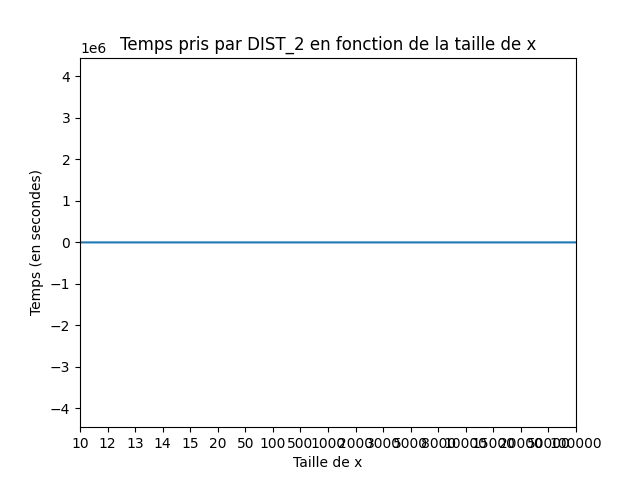
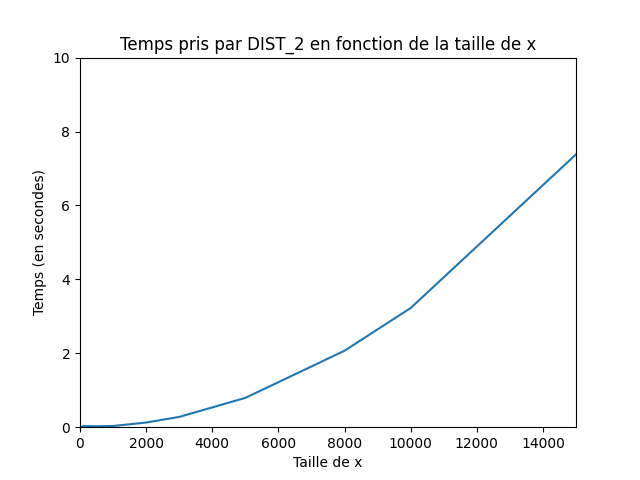
peut-être le commit final ?

diff --git a/Partie4.py b/Partie4.py
@@ -1,5 +1,3 @@
-#Partie 4
-
 from TacheD import *
 import random
 
@@ -20,6 +18,9 @@ def generate_instance(n, m):
 		raise Exception("Erreur lors de l'ouverture du fichier")
 		return None
 
+	f.write(str(n) + "\n")
+	f.write(str(m) + "\n")
+
 	for i in range(n):
 		f.write(random.choice(L))
 
@@ -38,51 +39,26 @@ instance3 = generate_instance(15000,500)
 
 print("\n")
 
-f = open(instance1, "r")
-lines = f.readlines()
-f.close()
-
-x = lines[0]
-x = x.replace("\n","")
-y = lines[1]
-y = y.replace("\n","")
+x,n,y,m = ouvrir_fichier(instance1)
 
 T, d = DIST_2(x,y)
 
 print("Distance d'édition pour n = 1000, m = 10 : " + str(d))
-print("(m - n) * CDEL = " + str((len(x)-len(y))*CDEL))
+print("(n - m) * CDEL = " + str((n-m)*CDEL))
 print("\n")
 
-f = open(instance2, "r")
-lines = f.readlines()
-f.close()
-
-x = lines[0]
-x = x.replace("\n","")
-y = lines[1]
-y = y.replace("\n","")
+x,n,y,m = ouvrir_fichier(instance2)
 
 T, d = DIST_2(x,y)
 
 print("Distance d'édition pour n = 5000, m = 100 : " + str(d))
-print("(m - n) * CDEL = " + str((len(x)-len(y))*CDEL))
+print("(n - m) * CDEL = " + str((n-m)*CDEL))
 print("\n")
 
-f = open(instance3, "r")
-lines = f.readlines()
-f.close()
-
-x = lines[0]
-x = x.replace("\n","")
-y = lines[1]
-y = y.replace("\n","")
+x,n,y,m = ouvrir_fichier(instance3)
 
 T, d = DIST_2(x,y)
 
 print("Distance d'édition pour n = 15000, m = 500 : " + str(d))
-print("(m - n) * CDEL = " + str((len(x)-len(y))*CDEL))
+print("(n - m) * CDEL = " + str((n-m)*CDEL))
 print("\n")
-
-
-
-

diff --git a/TacheD.py b/TacheD.py
@@ -39,8 +39,12 @@ def coupure(x,y):
 	n = len(x)+1
 	m = len(y)+1
 	T = [[0]*m for i in range(2)]
-	D = DIST_2(x[:i_etoile-1],y)[0]
-	D[0] = [i for i in D[1]]
+	
+	if i_etoile == 0:
+		D = DIST_2(x[:i_etoile+1],y)[0]
+	else:
+		D = DIST_2(x[:i_etoile],y)[0]
+	D[1] = [0]*m
 
 	for i in range(i_etoile, n):
 		for j in range(m):
@@ -51,19 +55,14 @@ def coupure(x,y):
 				sup = D[0][j] + CDEL
 				sub = D[0][j-1] + csub(x[i-1], y[j-1])
 				D[1][j] = min(ins,sup,sub)
-
 				if i == i_etoile:
 					T[1][j] = j
-
 				elif D[1][j] == sup:
 					T[1][j] = T[0][j]
-
 				elif D[1][j] == ins:
 					T[1][j] = T[1][j-1]
-
 				else:
 					T[1][j] = T[0][j-1]
-		
 		D[0] = [k for k in D[1]]
 		T[0] = [k for k in T[1]]
 	return T[1][m-1]
@@ -98,3 +97,10 @@ def SOL_2(x,y):
 	x2,y2 = SOL_2(x[i:],y[j:])
 
 	return (x1+x2,y1+y2)
+
+x = "ACTGGTC"
+y = "TGCAA"
+
+x = "ACTGGTC"
+y = "TGCAA"
+print(SOL_2(x,y))

diff --git a/tests_dist_2.py b/tests_dist_2.py
@@ -202,7 +202,8 @@ plt.xlabel("Taille de x")
 plt.ylabel("Temps (en secondes)")
 plt.savefig("images/DIST2.png")
 
-plt.margins(0,15000)
+plt.xlim(0,15000)
+plt.ylim(0,10)
 plt.savefig("images/DIST2ZOOM.png")
 
 print("tests_dist_2 done")

diff --git a/ouverture_fichier.py b/ouverture_fichier.py
@@ -28,4 +28,4 @@ def ouvrir_fichier(nom):
 	y = y.replace(" ","")
 	y = y.replace("\n","")
 
-	return (x,n,y,m)
+	return (x,int(n),y,int(m))
